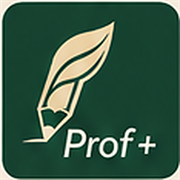
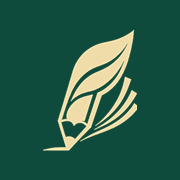
Usa a assinatura horizontal oficial da Prof+
Extrai a assinatura em 1274x711 do manual de identidade e recorta o fundo
off-white com difference key + unpremultiply, preservando verde, laranja e
o antialias das bordas.

- logo-horizontal.png / -light.png (mono off-white para fundo escuro)
- simbolo isolado, favicons e og-image regerados a partir dela
- remove as assinaturas alternativas em ladrilho
- navbar e rodape passam a usar o arquivo da marca, sem recompor com texto

diff --git a/index.html b/index.html
@@ -498,21 +498,12 @@ button { cursor:pointer; background:none; border:none; padding:0; }
 }
 @media (min-width:1024px) { .navbar { min-height:80px; } }
 
-/* Assinatura horizontal: símbolo à esquerda, logotipo à direita (DS 2.3) */
-.logo { display:inline-flex; align-items:center; gap:var(--space-3); }
-.logo__symbol { width:34px; height:auto; flex:0 0 auto; }
-@media (min-width:1024px) { .logo__symbol { width:40px; } }
-.logo__wordmark {
-  font-family:var(--font-family-primary);
-  font-weight:var(--font-weight-semibold);
-  font-size:1.5rem;
-  line-height:1;
-  color:var(--color-primary-deepgreen);
-  letter-spacing:var(--letter-spacing-tighter);
-}
-@media (min-width:1024px) { .logo__wordmark { font-size:1.75rem; } }
-/* O sinal "+" nunca muda de cor em aplicações coloridas (DS 2.1) */
-.logo__plus { color:var(--color-primary-orange); }
+/* Assinatura horizontal oficial (DS 2.1) — arquivo único da marca.
+   Nunca recompor com texto: o logotipo tem desenho próprio. */
+.logo { display:inline-flex; align-items:center; }
+.logo__full { width:auto; height:38px; }
+@media (min-width:768px)  { .logo__full { height:44px; } }
+@media (min-width:1024px) { .logo__full { height:50px; } }
 
 .nav-links { display:none; }
 @media (min-width:1024px) {
@@ -1131,9 +1122,8 @@ button { cursor:pointer; background:none; border:none; padding:0; }
 .footer-grid { display:grid; gap:var(--space-10); }
 @media (min-width:768px)  { .footer-grid { grid-template-columns:repeat(2,1fr); } }
 @media (min-width:1024px) { .footer-grid { grid-template-columns:1.6fr 1fr 1fr 1.2fr; gap:var(--space-12); } }
-.footer-logo { display:inline-flex; align-items:center; gap:var(--space-3); margin-bottom:var(--space-5); }
-.footer-logo img { width:38px; }
-.footer-logo .logo__wordmark { color:var(--color-secondary-offwhite); }
+.footer-logo { display:inline-flex; align-items:center; margin-bottom:var(--space-5); }
+.footer-logo img { width:auto; height:52px; }
 .footer-tagline {
   font-family:var(--font-family-mono); font-size:var(--font-size-overline);
   letter-spacing:var(--letter-spacing-widest); text-transform:uppercase;
@@ -1446,8 +1436,7 @@ body.has-sticky-cta .wa-float { bottom:88px; }
   <div class="container">
     <nav class="navbar" aria-label="Navegação principal">
       <a href="#topo" class="logo" aria-label="Prof+ — Materiais pedagógicos personalizados">
-        <img class="logo__symbol" src="assets/logo-symbol.png" alt="" aria-hidden="true" width="230" height="340">
-        <span class="logo__wordmark">Prof<span class="logo__plus">+</span></span>
+        <img class="logo__full" src="assets/logo-horizontal.png" alt="Prof+" width="1274" height="711">
       </a>
 
       <ul class="nav-links">
@@ -2504,8 +2493,7 @@ body.has-sticky-cta .wa-float { bottom:88px; }
     <div class="footer-grid">
       <div>
         <div class="footer-logo">
-          <img src="assets/logo-symbol-light.png" alt="" aria-hidden="true" width="230" height="340">
-          <span class="logo__wordmark">Prof<span class="logo__plus">+</span></span>
+          <img src="assets/logo-horizontal-light.png" alt="Prof+" width="1274" height="711">
         </div>
         <p class="footer-tagline">Educar, Transformar, Inspirar.</p>
         <p class="body-sm">Materiais pedagógicos personalizados para professores que querem mais tempo, mais qualidade e mais leveza no planejamento.</p>
